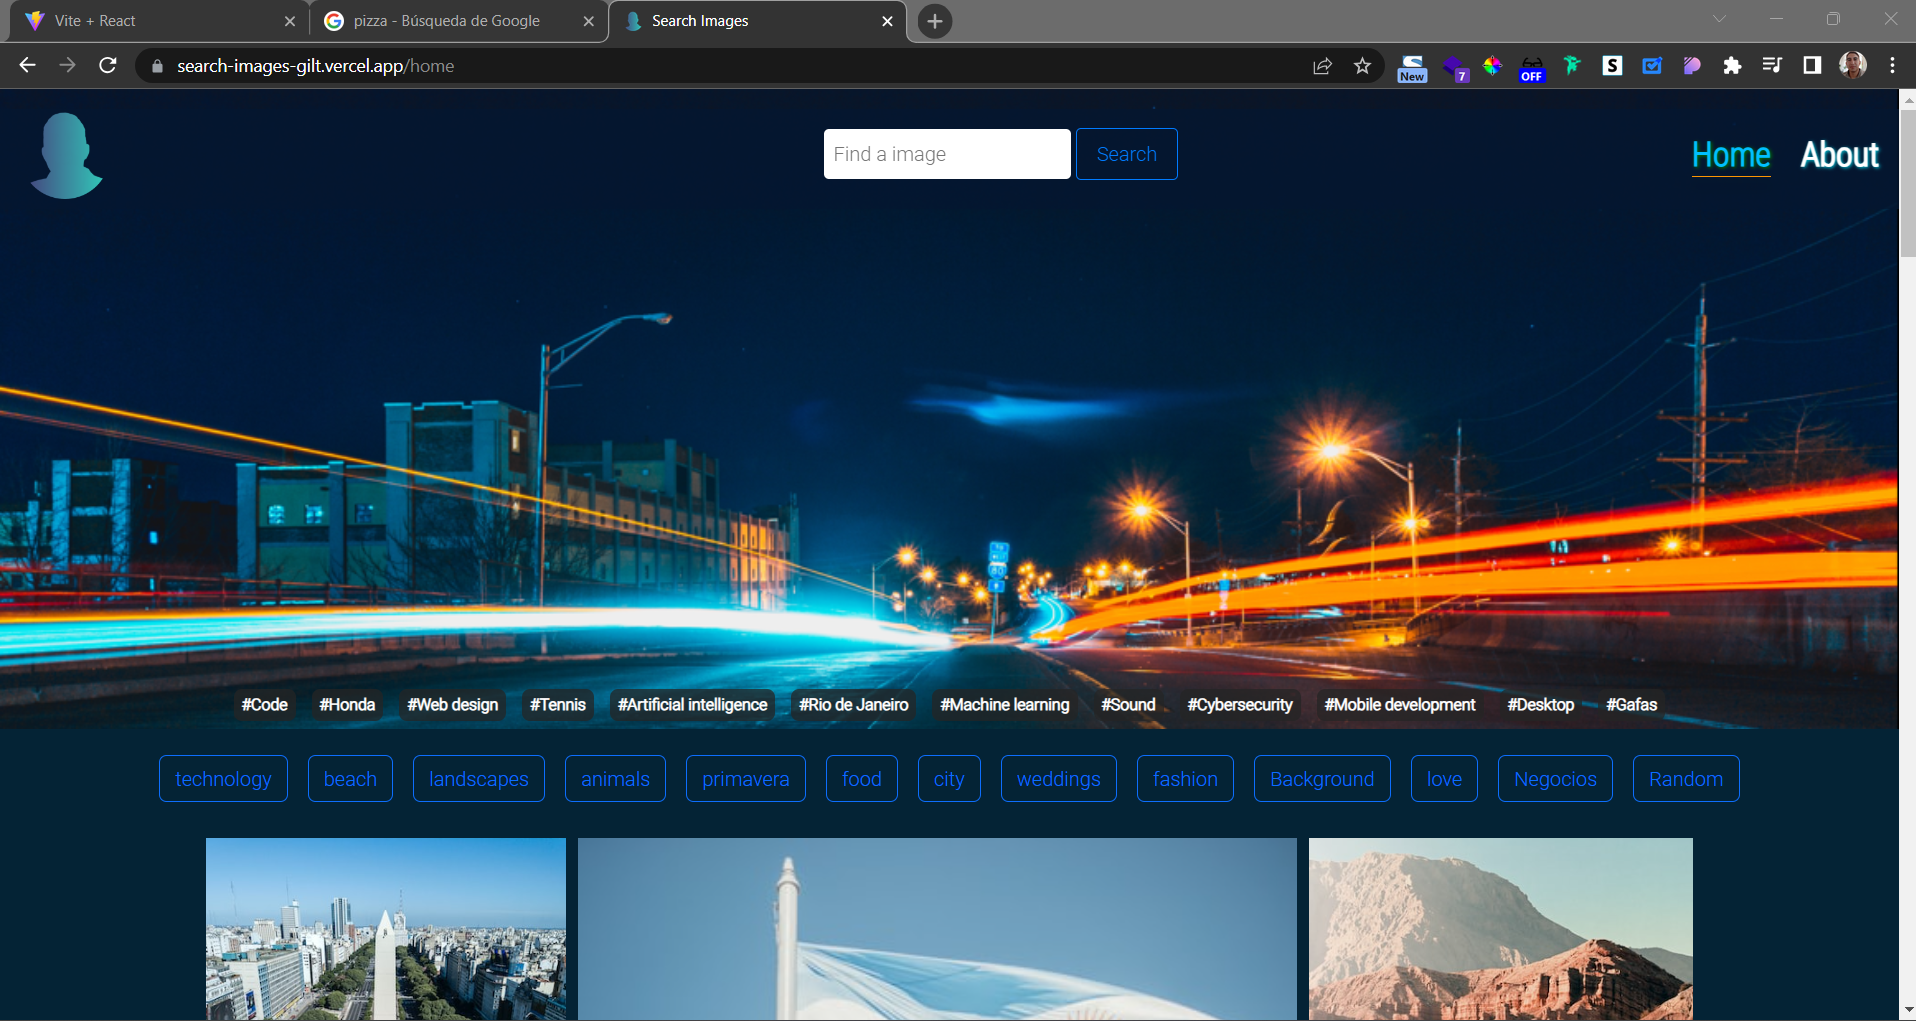
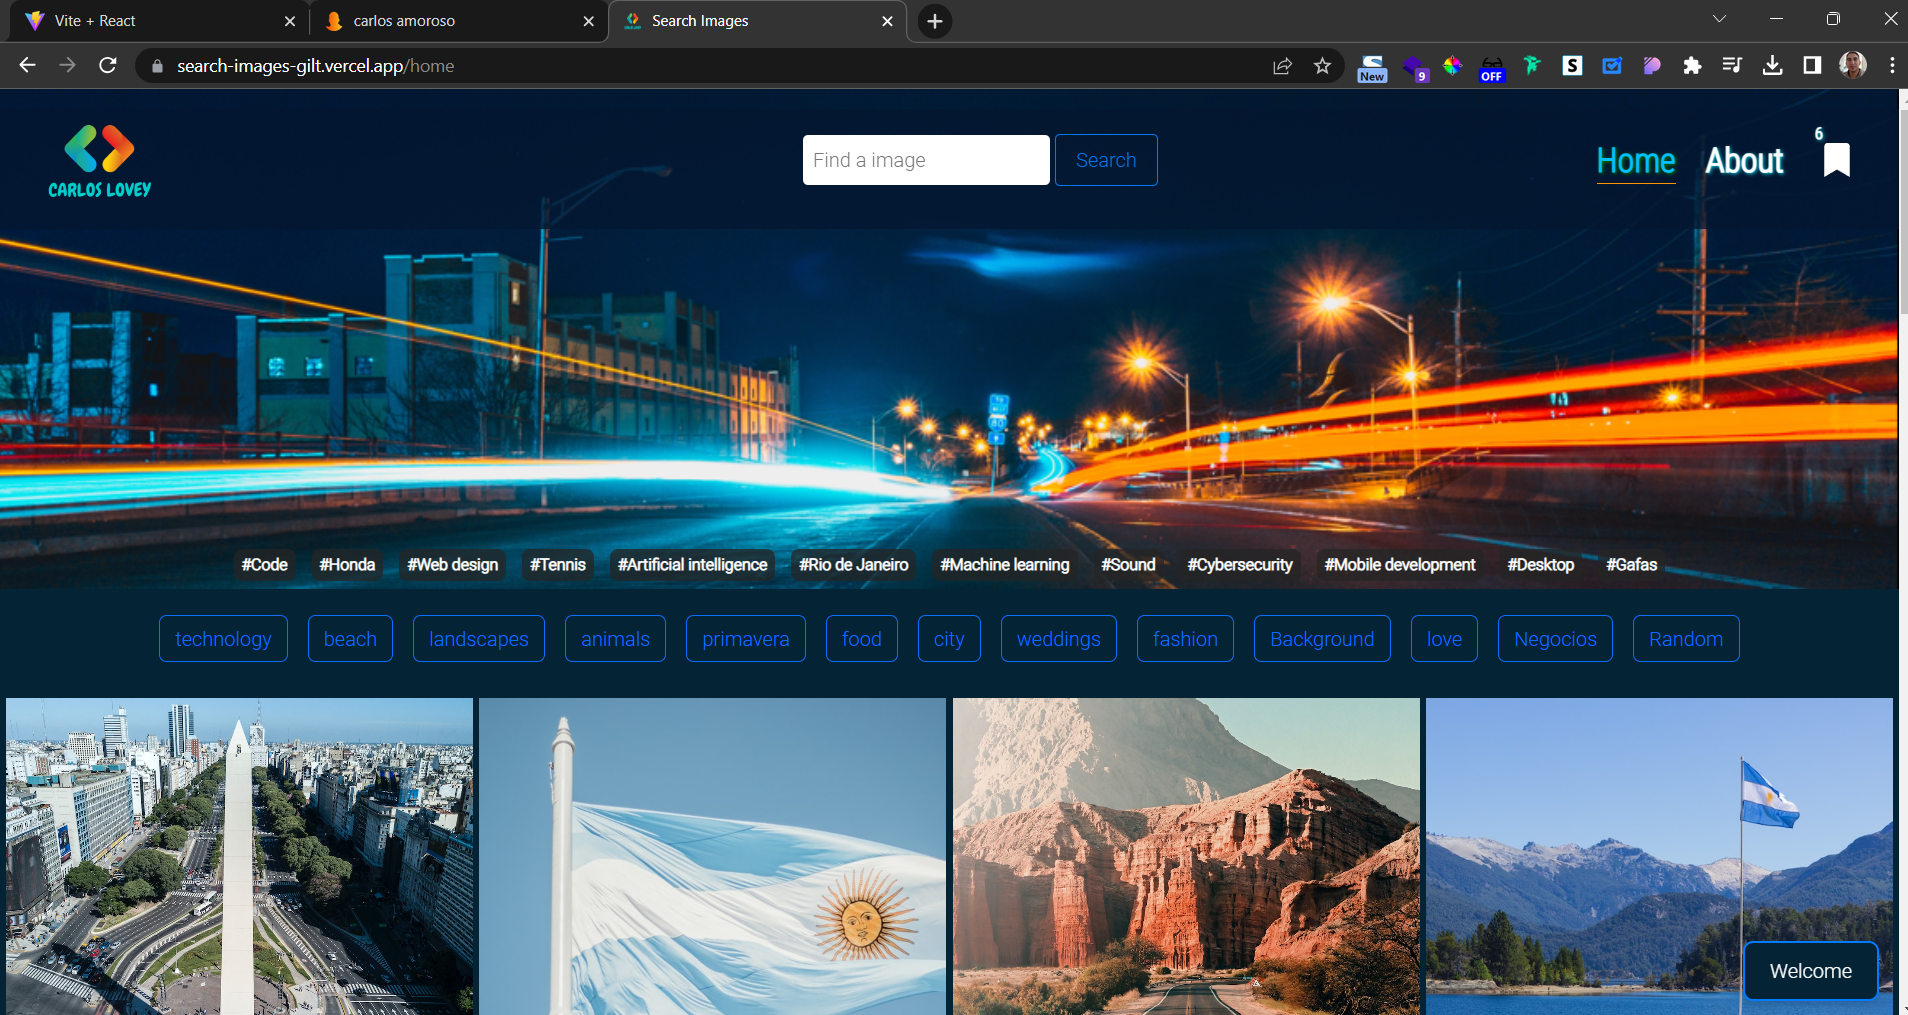
actualizados los videos e imagenes

diff --git a/src/components/Projects/WorkifyServices.jsx b/src/components/Projects/WorkifyServices.jsx
@@ -1,20 +1,18 @@
 import React from "react";
+import ReactPlayer from "react-player";
 import styles from "./stylesProjects.module.css";
 import { Carousel } from "react-responsive-carousel";
 import "react-responsive-carousel/lib/styles/carousel.min.css";
-import ReactPlayer from "react-player";
-import rym1 from "./assets/rym1.png";
-import rym2 from "./assets/rym2.png";
-import rym3 from "./assets/rym3.png";
-import rym4 from "./assets/rym4.png";
-import rym5 from "./assets/rym5.png";
-import rym6 from "./assets/rym6.png";
+import img1 from "./assets/workify1.png";
+import img2 from "./assets/workify2.png";
+import img3 from "./assets/workify3.png";
+import img4 from "./assets/workify4.png";
 
-const RickAndMorty = () => {
+const WorkifyServices = () => {
   return (
     <div className={styles.projectContainer}>
       <h2 className={styles.title}>
-        <span>1.</span> Rick & Morty
+        <span>•</span> Workify Services
       </h2>
       <div className={styles.row}>
         <div className={styles.oneThird}>
@@ -35,29 +33,23 @@ const RickAndMorty = () => {
             showStatus={false}
           >
             <div className={styles.carouselImageContainer}>
-              <img className={styles.carouselImage} src={rym1} alt="rym1" />
+              <img className={styles.carouselImage} src={img1} alt="img1" />
             </div>
             <div className={styles.carouselImageContainer}>
-              <img className={styles.carouselImage} src={rym2} alt="rym2" />
+              <img className={styles.carouselImage} src={img2} alt="img2" />
             </div>
             <div className={styles.carouselImageContainer}>
-              <img className={styles.carouselImage} src={rym3} alt="rym3" />
+              <img className={styles.carouselImage} src={img3} alt="img3" />
             </div>
             <div className={styles.carouselImageContainer}>
-              <img className={styles.carouselImage} src={rym4} alt="rym4" />
-            </div>
-            <div className={styles.carouselImageContainer}>
-              <img className={styles.carouselImage} src={rym5} alt="rym5" />
-            </div>
-            <div className={styles.carouselImageContainer}>
-              <img className={styles.carouselImage} src={rym6} alt="rym6" />
+              <img className={styles.carouselImage} src={img4} alt="img4" />
             </div>
           </Carousel>
         </div>
       </div>
       <div className={styles.row}>
         <div className={styles.twoThirds}>
-          <ReactPlayer controls={true} url="https://youtu.be/HYwBTpg5Z2I" />
+          <ReactPlayer controls={true} url="https://youtu.be/pPZNQ-xIbC0" />
         </div>
         <div className={styles.oneThird}>
           <p>tecnologias</p>
@@ -70,4 +62,4 @@ const RickAndMorty = () => {
   );
 };
 
-export default RickAndMorty;
+export default WorkifyServices;

diff --git a/src/components/Landing/Landing.module.css b/src/components/Landing/Landing.module.css
@@ -50,7 +50,30 @@
   display: flex;
   flex-direction: column;
   justify-content: space-between;
-  padding: 15px 15px;
+  padding: 20px 15px;
+}
+
+.divImgPerson {
+  width: 140px;
+  height: 140px;
+  border-radius: 50%;
+  overflow: hidden;
+  position: relative;
+  background-color: var(--blue);
+  display: flex;
+  justify-content: center;
+  align-items: center;
+  margin-bottom: 20px;
+}
+
+.imgPerson {
+  max-width: 100%;
+  height: 100%;
+  object-fit: cover;
+  position: absolute;
+  top: 50%;
+  left: 48%;
+  transform: translate(-50%, -50%);
 }
 
 .infoContainer {
@@ -77,17 +100,6 @@
 }
 .info p {
   color: black;
-}
-.divImgPerson {
-  background-color: var(--blue);
-  border-radius: 70px;
-  height: 100%;
-  display: flex;
-  align-items: center;
-  justify-content: center;
-}
-.imgPerson {
-  max-width: 8em;
 }
 
 .presentation {

diff --git a/src/components/Landing/Landing.jsx b/src/components/Landing/Landing.jsx
@@ -1,7 +1,7 @@
 import React from "react";
 import styles from "./Landing.module.css";
 import img from "./assets/20230606_004054-removebg-preview (1).png";
-import Diame from "./assets/diame.png";
+import diame from "./assets/diame.png";
 import jensy from "./assets/jensy.png";
 import logo from "../../assets/logo.png";
 import { Link } from "react-router-dom";
@@ -47,7 +47,7 @@ const Landing = () => {
                 <p>Desarrollador Fullstack</p>
               </div>
               <div className={styles.divImgPerson}>
-                <img className={styles.imgPerson} src={Diame} alt="" />
+                <img className={styles.imgPerson} src={diame} alt="" />
               </div>
             </div>
           </div>

diff --git a/src/components/Projects/AreYouHungry.jsx b/src/components/Projects/AreYouHungry.jsx
@@ -15,7 +15,7 @@ const AreYouHungry = () => {
   return (
     <div className={styles.projectContainer}>
       <h2 className={styles.title}>
-        <span>1.</span> Are you hungry?
+        <span>•</span> Are you hungry?
       </h2>
       <div className={styles.row}>
         <div className={styles.oneThird}>
@@ -89,7 +89,7 @@ const AreYouHungry = () => {
       </div>
       <div className={styles.row}>
         <div className={styles.twoThirds}>
-          <ReactPlayer controls={true} url="https://youtu.be/waKEvvdhPog" />
+          <ReactPlayer controls={true} url="https://youtu.be/EzsG52GOCzM" />
         </div>
         <div className={styles.oneThird}>
           <p>tecnologias</p>

diff --git a/src/components/Portfolio/Portfolio.jsx b/src/components/Portfolio/Portfolio.jsx
@@ -1,6 +1,7 @@
 import AreYouHungry from "../Projects/AreYouHungry";
 import RickAndMorty from "../Projects/RickAndMorty";
 import SearchImages from "../Projects/SearchImages";
+import WorkifyServices from "../Projects/WorkifyServices";
 import styles from "./Portfolio.module.css";
 import { useEffect } from "react";
 
@@ -17,8 +18,9 @@ const Portfolio = () => {
       </div>
       <div className={styles.projectsContainer}>
         <AreYouHungry />
-        <RickAndMorty />
+        <WorkifyServices />
         <SearchImages />
+        <RickAndMorty />
       </div>
     </div>
   );

diff --git a/src/components/Projects/SearchImages.jsx b/src/components/Projects/SearchImages.jsx
@@ -65,7 +65,7 @@ const SearchImages = () => {
       </div>
       <div className={styles.row}>
         <div className={styles.twoThirds}>
-          <ReactPlayer controls={true} url="https://youtu.be/-Hpy1jnpmZE" />
+          <ReactPlayer controls={true} url="https://youtu.be/niXhbVh3Gec" />
         </div>
         <div className={styles.oneThird}>
           <p>tecnologias</p>
